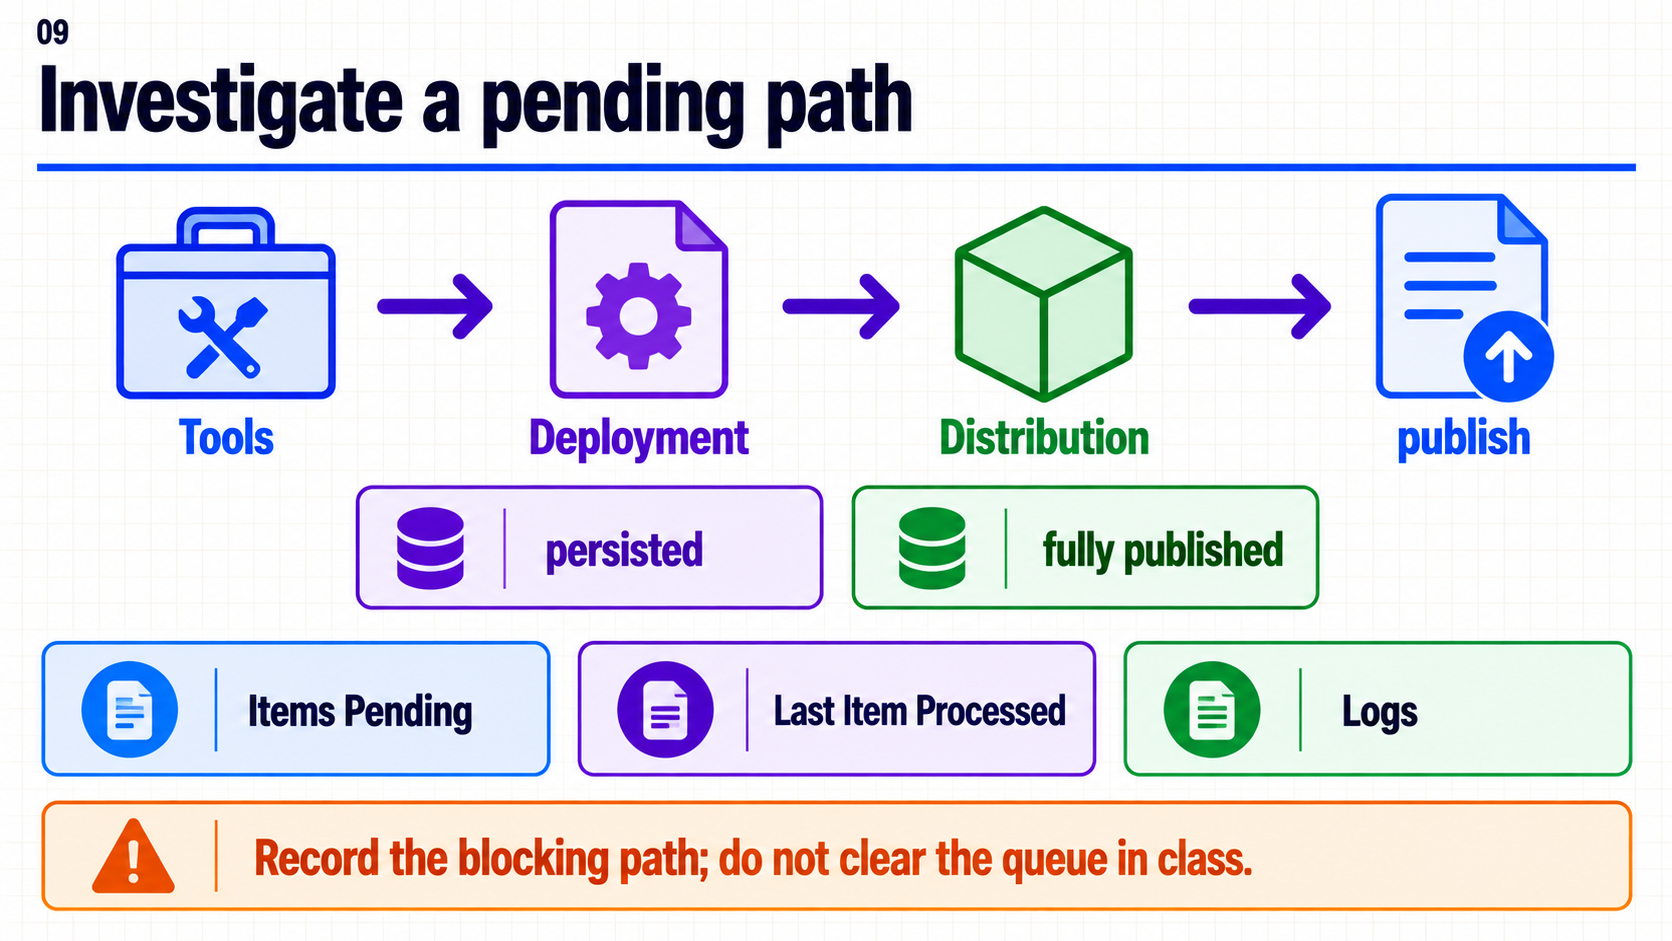
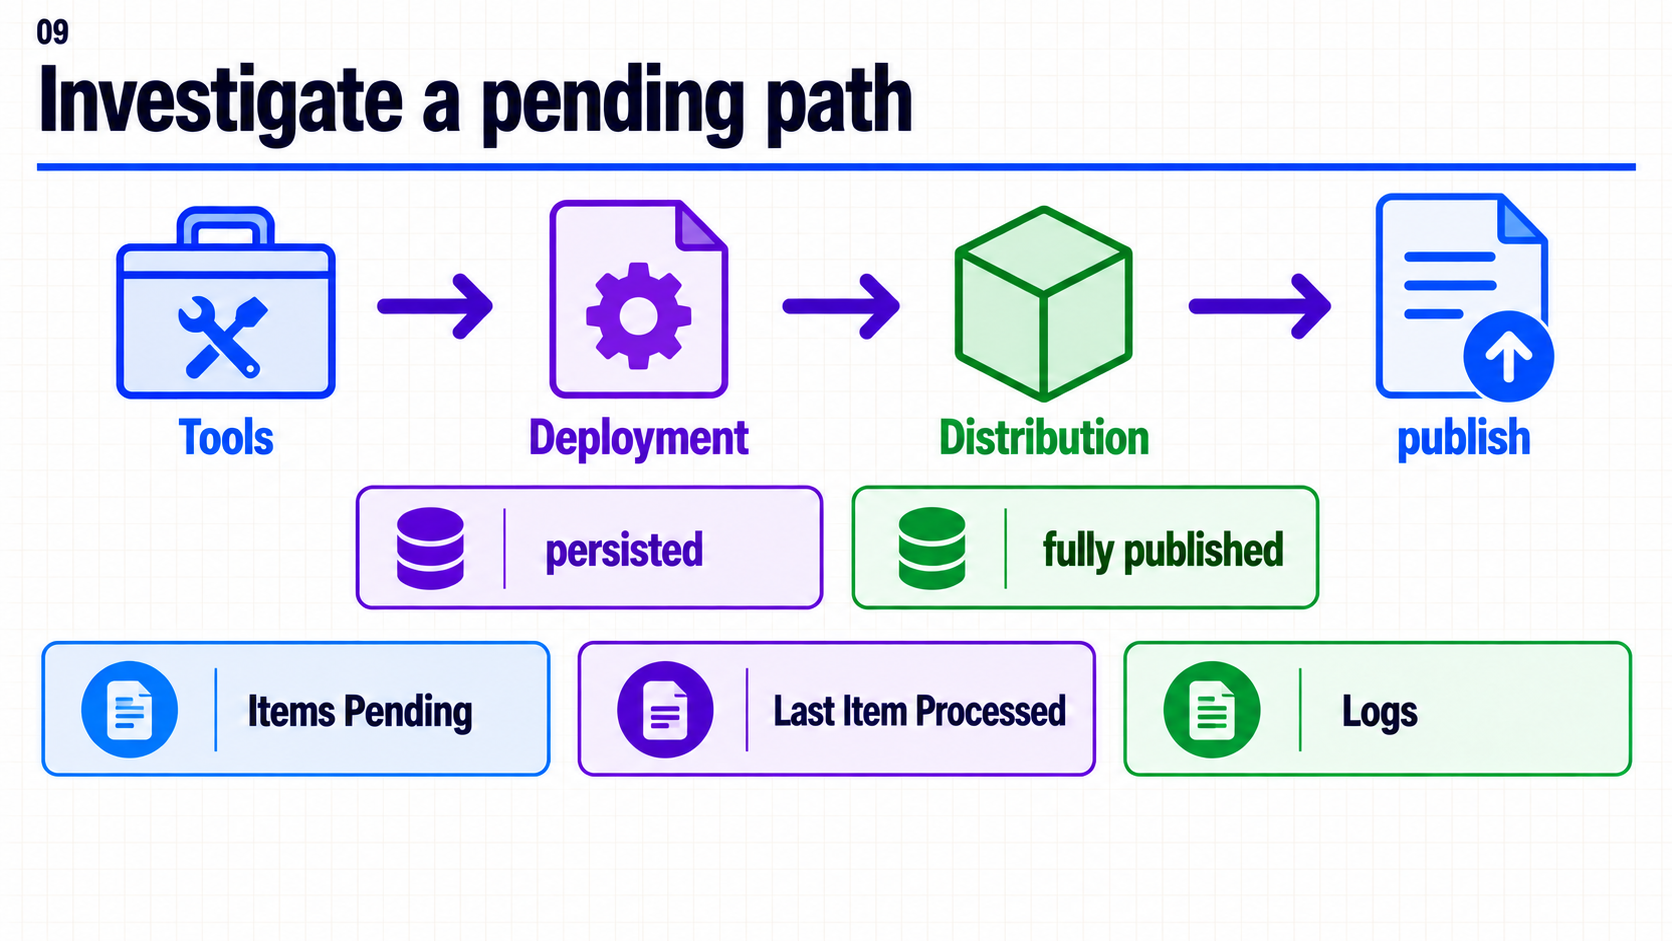
fix lesson 31

diff --git a/slides/lesson-31/outline.md b/slides/lesson-31/outline.md
@@ -61,7 +61,6 @@ Technical continuation of the approved course style. Twelve English image slides
 - Tools → Deployment → Distribution → publish.
 - Check persisted and fully published queues.
 - Inspect Items Pending, Last Item Processed and Logs.
-- Record the blocking path; do not clear the queue in class.
 - Visual: ordered Cloud investigation route with two queue indicators. Diagnosis.
 
 ## Slide 10 · Local proof is not Cloud proof
